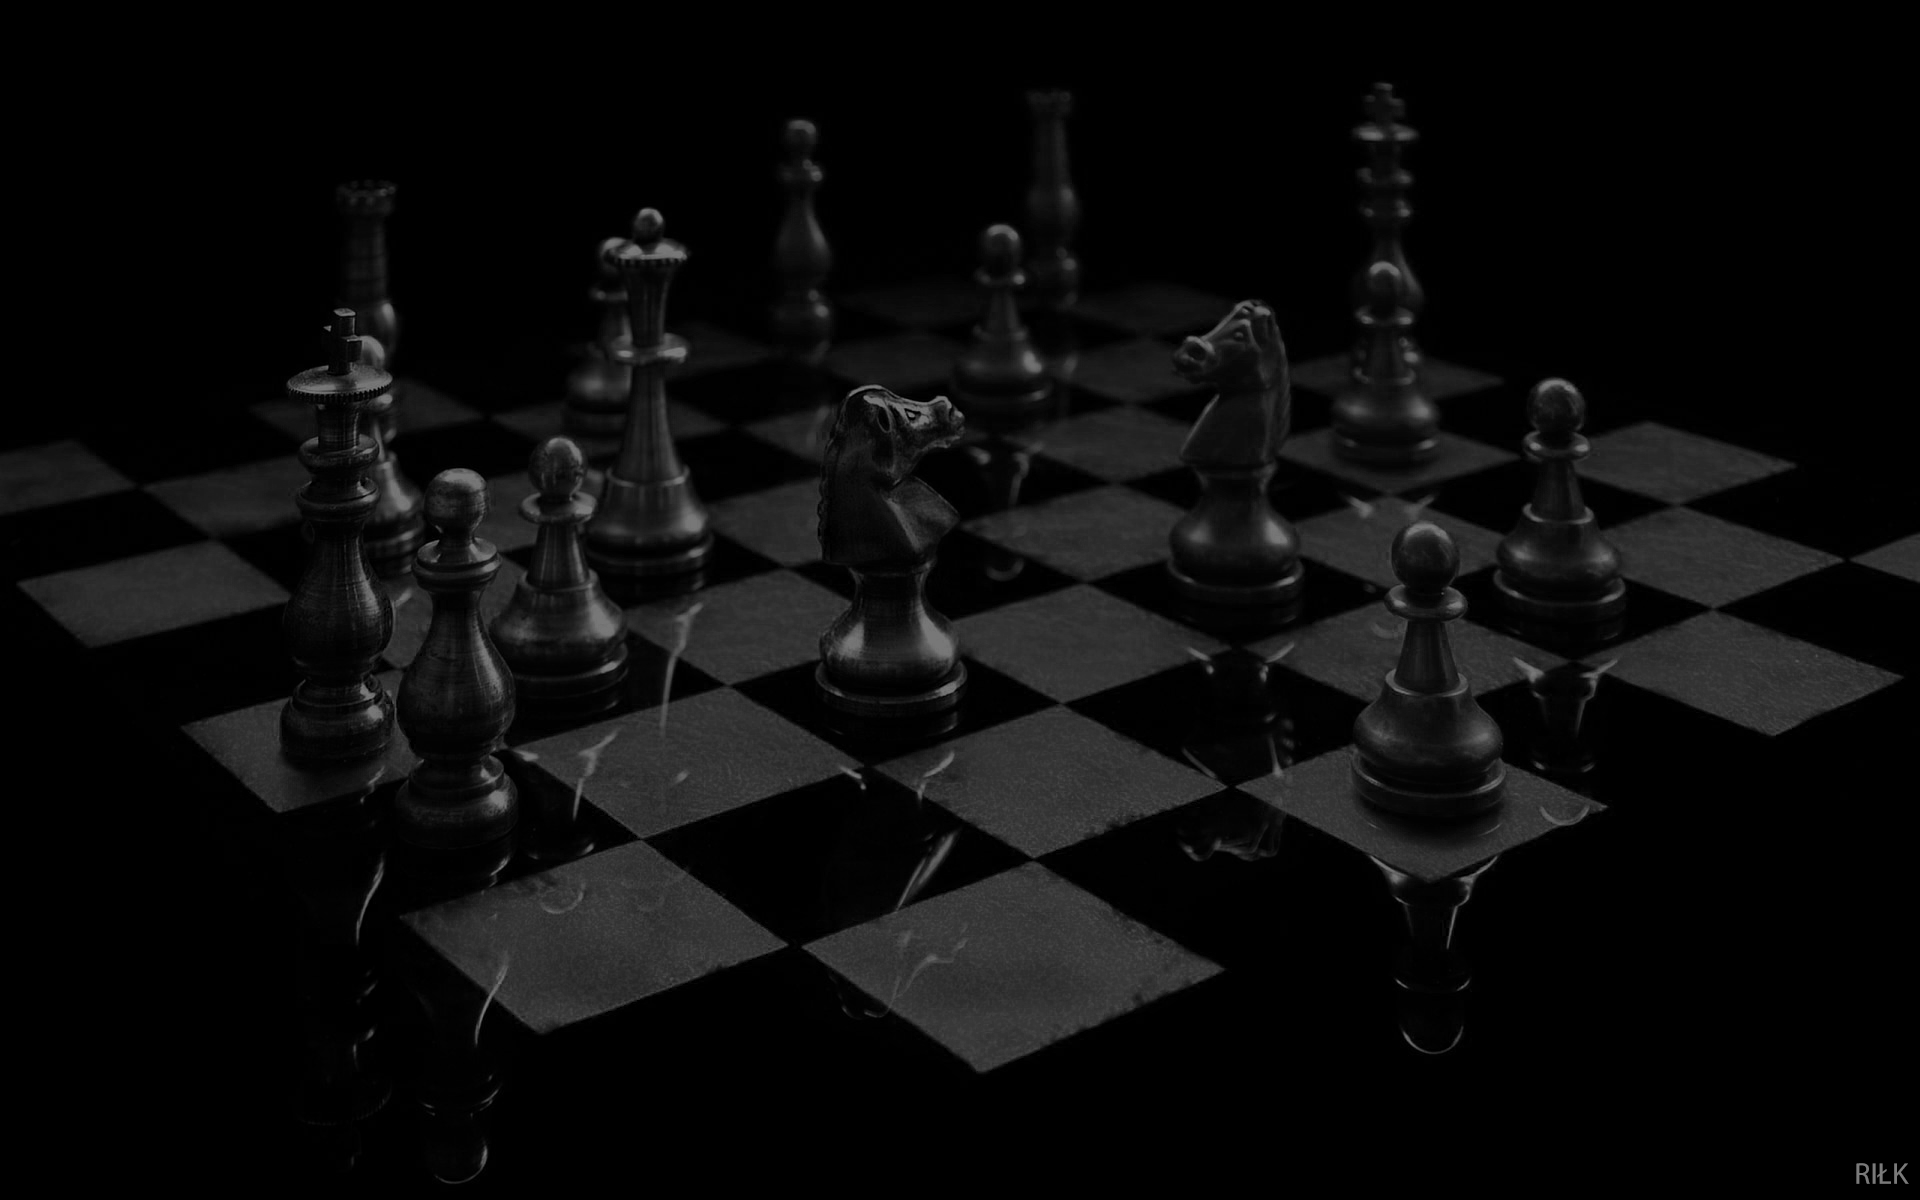
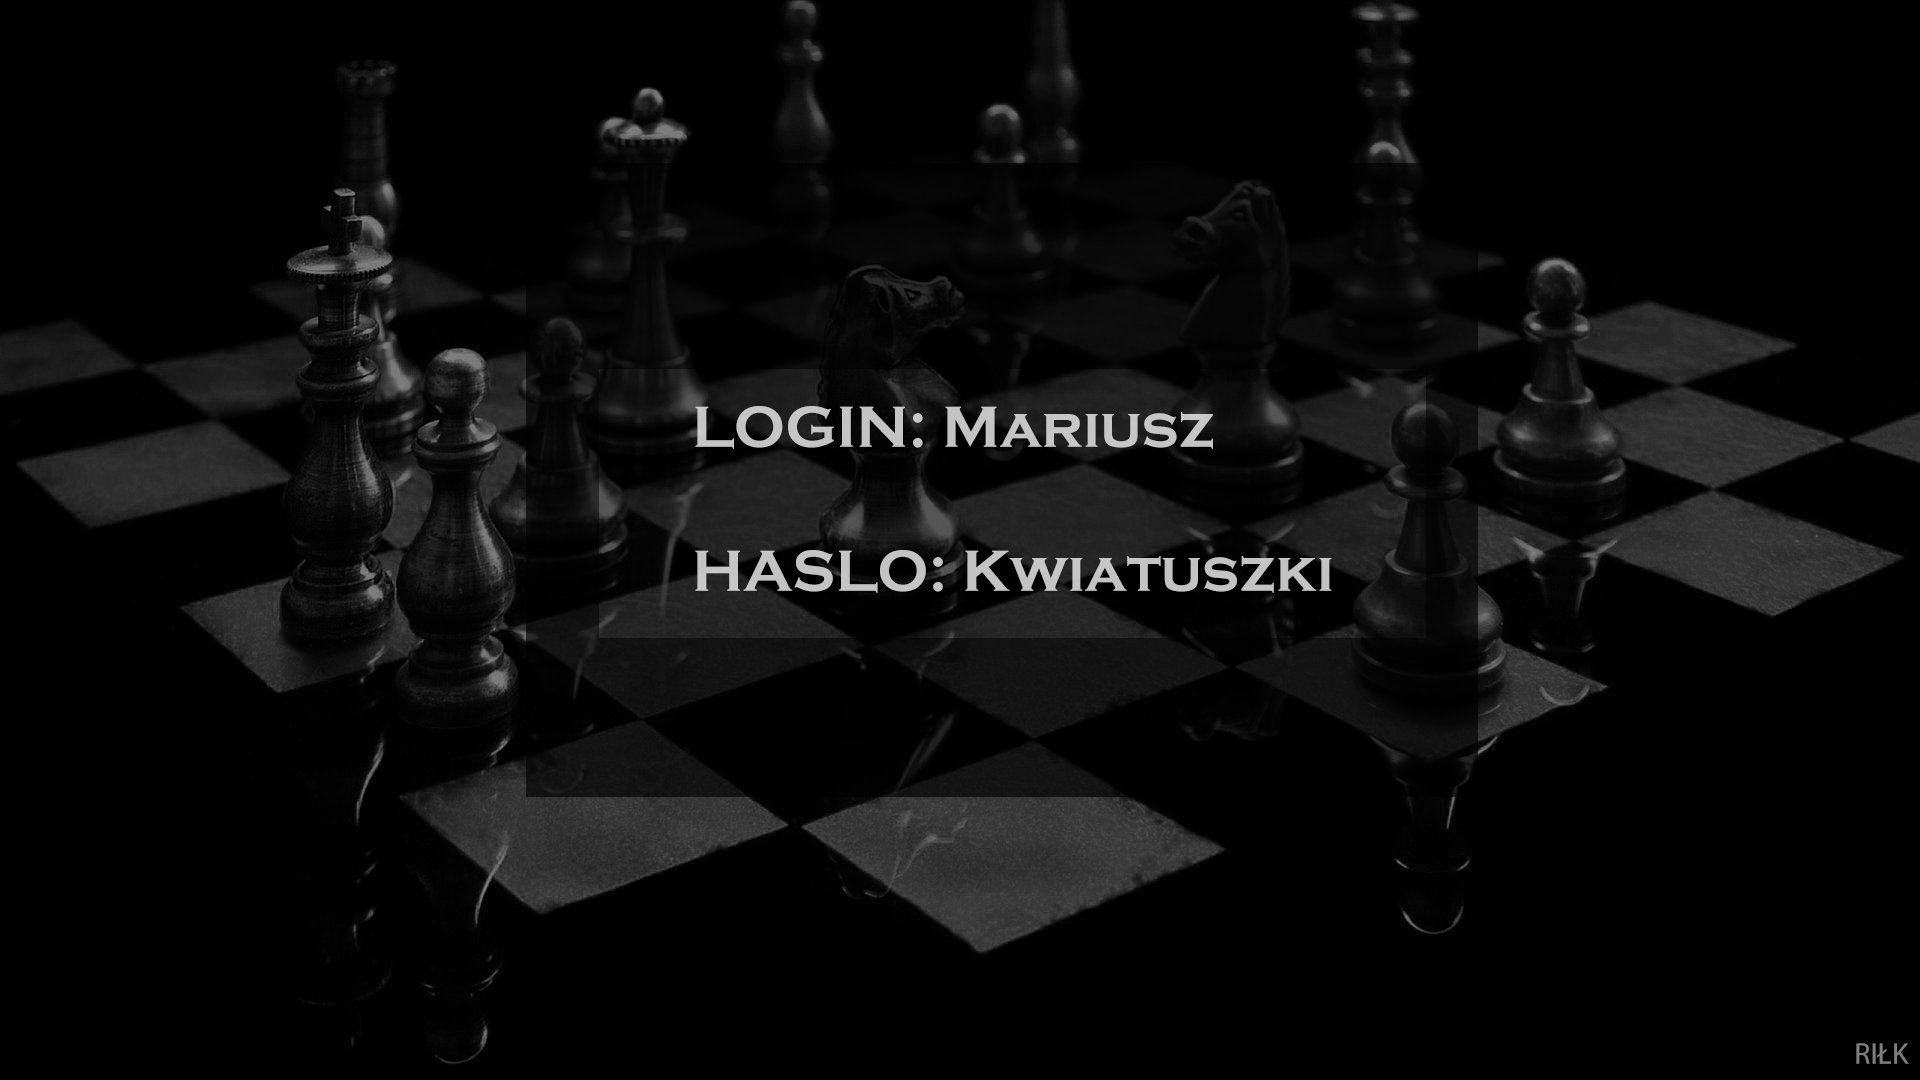
poprawki

diff --git a/sites/style.css b/sites/style.css
@@ -96,8 +96,9 @@ a{
 #szukanie{
     width: 80%;
     height: 80vh;
-    background-color: lightgreen;
+    background-color: rgba(0,0,0,0.9);
 
+    color: white;
 
     display: flex;
     justify-content:center;
